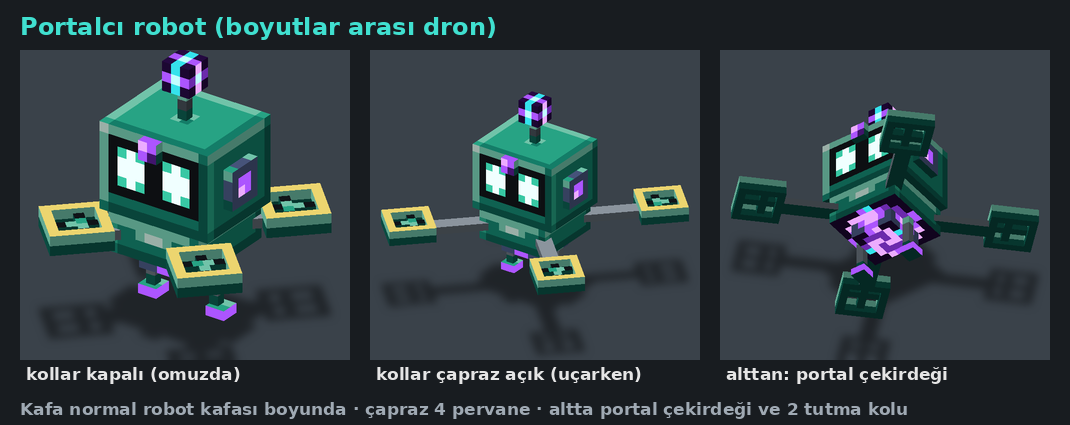
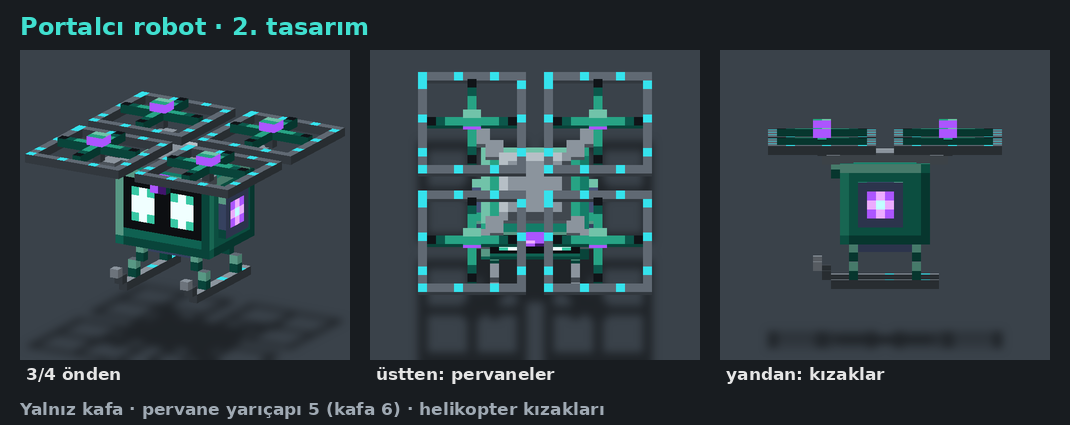
Portalcı 2. tasarım: yalnız kafa, büyük yakın pervaneler, helikopter kızakları
Claude-Session: https://claude.ai/code/session_016dSUtqjRQFdnbyLYXoqgnG

diff --git a/aqualit/tasarim/portalci.py b/aqualit/tasarim/portalci.py
@@ -1,101 +1,95 @@
-"""Portalcı (boyutlar arası) robot: kendisi bir dron. Kafası normal robot kafası boyunda (12x9x10), altında kısa gövde ve
-girdaplı portal çekirdeği; çapraza (X) açılan 4 kol, her kolun ucunda halka içinde yatay pervane. Altta iki tutma kolu
-(robotları omuzlarından tutup uçurur). Boşken küçülüp omuzda süzülür."""
+"""Portalcı (boyutlar arası) robot, 2. tasarım: yalnız kafa (normal robot kafası 12x9x10) uçan dron.
+Kafanın üst köşelerine yakın, çapraz (X) dizili dört büyük yatay pervane (yarıçap 5 = kafa yarıçapının (6) 5/6'sı),
+her biri kare koruma halkasında. Altta helikopter gibi ince, modern iniş kızakları (turkuaz şeritli).
+Alnında portal taşı, yanlarda portal halkaları, kafanın altında yüzeye gömülü parlayan portal çekirdeği."""
 import math
 import os
 from ortak import Form, Part, kutu, fill, rows, panel, over, dondur_gif, kart, OUT, Z, model, R
 
-KOLLAR = [('fl', 45), ('fr', -45), ('bl', 135), ('br', -135)]   # yukarıdan açı (+z ön)
+D = 7            # pervane merkezlerinin kafa merkezine x/z uzaklığı
+YP = 20          # pervane yüksekliği (kafa tepesi 19)
+RP = 5           # pervane yarıçapı
+KOSE = [('fl', 1, 1), ('fr', -1, 1), ('bl', 1, -1), ('br', -1, -1)]
 
 
 def girdap(n, t=0.0):
-    """n x n portal girdabı yüzü (mor-turkuaz)."""
-    g = []
-    c = (n - 1) / 2
+    g, c = [], (n - 1) / 2
     for y in range(n):
         r = []
         for x in range(n):
-            dx, dy = x - c, y - c
-            d = math.hypot(dx, dy) / max(c, 1)
-            a = math.atan2(dy, dx) + d * 3.2 - t * 6.283
+            d = math.hypot(x - c, y - c) / max(c, 1)
+            a = math.atan2(y - c, x - c) + d * 3.2 - t * 6.283
             v = (math.sin(a * 2) + 1) / 2
-            if d > 1.05:
-                r.append('ç')
-            elif d < 0.25:
-                r.append('Ç')
-            else:
-                r.append('ü' if v > 0.75 else 'ğ' if v > 0.45 else 'ö' if v > 0.25 else 'ş')
+            r.append('ç' if d > 1.05 else 'Ç' if d < 0.25 else 'ü' if v > 0.75 else 'ğ' if v > 0.45 else 'ö' if v > 0.25 else 'ş')
         g.append(r)
     return g
 
 
-def model_portalci(t=0.0, kol_acik=1.0):
+def model_portalci(t=0.0):
     f = Form('portalci', 'Portalcı')
     f.bone('root', None, (0, 0, 0))
-    f.bone('govde', 'root', (0, 8, 0))
-    f.bone('kafa', 'govde', (0, 10, 0))
-    # kafa: normal robot kafası (gözler ışıklı), alnında portal taşı, tepesinde girdap küreli anten
+    f.bone('govde', 'root', (0, 14, 0))
+    # kafa = robotun kendisi
     for p in R.base_robot('portalci'):
         if p.name == 'head':
-            f.parts.append(Part('kafa', p, 'EYES'))
-    kutu(f, 'kafa', 'alin_tasi', (-1, 17, 5), (1, 18.5 + 0.5, 5.5 + 0.5), base='ğ', glow='ğüÇ',
-         front=rows('üğ', 'ğş'))
-    kutu(f, 'kafa', 'anten', (-0.5, 19, -0.5), (0.5, 22, 0.5), base='%')
-    kutu(f, 'kafa', 'anten_kure', (-1.5, 22, -1.5), (1.5, 25, 1.5), base='ğ', glow='ğüÇöş',
-         front=girdap(3, t), back=girdap(3, t + .3), left=girdap(3, t + .5), right=girdap(3, t + .7), top=girdap(3, t))
-    # yanlarda kulak yerine küçük portal halkaları
+            f.parts.append(Part('govde', p, 'EYES'))
+    kutu(f, 'govde', 'alin_tasi', (-1, 17, 5), (1, 19, 6), base='ğ', glow='ğüÇ', front=rows('üğ', 'ğş'))
     for ad, x0 in (('kulak_l', -7), ('kulak_r', 6)):
-        kutu(f, 'kafa', ad, (x0, 12.5, -1.5), (x0 + 1, 16.5, 2.5), base='3',
-             left=over(fill(4, 4, '3'), rows('ğğ', 'üğ'), 1, 1), right=over(fill(4, 4, '3'), rows('ğğ', 'üğ'), 1, 1),
-             glow='ğü')
-    # gövde: kafanın altında yassı dron gövdesi; altında parlayan portal çekirdeği
-    on = panel(10, 4, 'M')
-    over(on, rows('HWWH'), 3, 1)
-    kutu(f, 'govde', 'govde', (-5, 6, -5), (5, 10, 5), base='M', front=on, bottom=girdap(10, t), glow='ğüÇöş')
-    kutu(f, 'govde', 'cekirdek', (-3, 4, -3), (3, 6, 3), base='3', bottom=girdap(6, t + .2), glow='ğüÇöş',
-         front=rows('3ğüüğ3', '33ğğ33'), back=rows('3ğüüğ3', '33ğğ33'), left=rows('3ğüüğ3', '33ğğ33'),
-         right=rows('3ğüüğ3', '33ğğ33'))
-    # çapraz 4 kol + uçlarında halka içinde yatay pervane
-    for ad, aci in KOLLAR:
-        kb = f'kol_{ad}'
-        f.bone(kb, 'govde', (0, 8, 0), (0, aci, 0))
-        L = 4 + 6 * kol_acik
-        kutu(f, kb, f'{kb}_cubuk', (-1, 7.5, 3), (1, 8.5, 3 + L), base='&', top=fill(2, int(L), '*'))
-        z0 = 3 + L
-        for nm, aa, bb in ((f'{kb}_h1', (-3, 7.5, z0), (3, 9.5, z0 + 1)), (f'{kb}_h2', (-3, 7.5, z0 + 5), (3, 9.5, z0 + 6)),
-                           (f'{kb}_h3', (-3, 7.5, z0 + 1), (-2, 9.5, z0 + 5)), (f'{kb}_h4', (2, 7.5, z0 + 1), (3, 9.5, z0 + 5))):
-            kutu(f, kb, nm, aa, bb, base='y', top=fill(int(bb[0] - aa[0]), int(bb[2] - aa[2]), 'Y'))
+        kutu(f, 'govde', ad, (x0, 12, -2), (x0 + 1, 17, 3), base='3', glow='ğüÇ',
+             left=over(fill(5, 5, '3'), rows('ğüğ', 'üÇü', 'ğüğ'), 1, 1), right=over(fill(5, 5, '3'), rows('ğüğ', 'üÇü', 'ğüğ'), 1, 1))
+    # kafanın altında gömülü portal çekirdeği (sarkmaz)
+    kutu(f, 'govde', 'cekirdek', (-3, 9, -3), (3, 10, 3), base='3', bottom=girdap(6, t), glow='ğüÇöşç')
+    # tepe göbeği: dört kolu taşıyan yassı plaka
+    kutu(f, 'govde', 'gobek', (-4, 19, -4), (4, 20, 4), base='&', top=panel(8, 8, '*', t='+', b='%', l='+', r='%'))
+    for ad, sx, sz in KOSE:
+        # göbekten pervaneye kısa çapraz kol (iki basamak)
+        for k in range(3):
+            x, z = sx * (3 + k * 1.5), sz * (3 + k * 1.5)
+            kutu(f, 'govde', f'kol_{ad}{k}', (x - 1, 19, z - 1), (x + 1, 20, z + 1), base='&', top=fill(2, 2, '*'))
+        cx, cz = sx * D, sz * D
+        kutu(f, 'govde', f'mil_{ad}', (cx - 0.5, 20, cz - 0.5), (cx + 0.5, 21, cz + 0.5), base='%')
+        # kare koruma halkası (yarıçap 6)
+        r = RP + 1
+        for nm, aa, bb in ((f'h1_{ad}', (cx - r, 20.5, cz - r), (cx + r, 21.5, cz - r + 1)),
+                           (f'h2_{ad}', (cx - r, 20.5, cz + r - 1), (cx + r, 21.5, cz + r)),
+                           (f'h3_{ad}', (cx - r, 20.5, cz - r + 1), (cx - r + 1, 21.5, cz + r - 1)),
+                           (f'h4_{ad}', (cx + r - 1, 20.5, cz - r + 1), (cx + r, 21.5, cz + r - 1))):
+            w_, d_ = int(round(bb[0] - aa[0])), int(round(bb[2] - aa[2]))
+            kutu(f, 'govde', nm, aa, bb, base='%', glow='ö',
+                 top=[['ö' if (i + j) % 4 == 0 else '&' for i in range(w_)] for j in range(d_)])
         pb = f'per_{ad}'
-        f.bone(pb, kb, (0, 8.5, z0 + 3))
-        kutu(f, pb, f'{pb}_a', (-2, 8, z0 + 2.5 - 0.5), (2, 9, z0 + 3.5 - 0.5), base='D', top=rows('kLHk'))
-        kutu(f, pb, f'{pb}_b', (-0.5, 8, z0 + 1), (0.5, 9, z0 + 5), base='D', top=rows('k', 'L', 'H', 'k'))
-    # altta iki tutma kolu (robotları omuzdan tutar)
-    for ad, x0 in (('tut_l', -4), ('tut_r', 3)):
-        kutu(f, 'govde', ad, (x0, 1, -0.5), (x0 + 1, 6, 0.5), base='&')
-        kutu(f, 'govde', ad + '_el', (x0 - 0.5 if ad == 'tut_l' else x0, 0, -1), (x0 + 1.5 if ad == 'tut_l' else x0 + 2, 1, 1),
-             base='ğ', glow='ğ')
+        f.bone(pb, 'govde', (cx, 21.5, cz))
+        kutu(f, pb, pb + 'a', (cx - RP, 21, cz - 0.5), (cx + RP, 22, cz + 0.5), base='D', top=rows('kDLLHHLLDk'))
+        kutu(f, pb, pb + 'b', (cx - 0.5, 21, cz - RP), (cx + 0.5, 22, cz + RP), base='D',
+             top=[[c] for c in 'kDLLHHLLDk'])
+        kutu(f, pb, pb + 'c', (cx - 1, 22, cz - 1), (cx + 1, 23, cz + 1), base='ğ', glow='ğ')
+    # helikopter iniş kızakları: iki ince boru, ucu yukarı kıvrık; ikişer eğik dikme; turkuaz şerit
+    for ad, sx in (('l', -1), ('r', 1)):
+        x = sx * 4.5
+        kutu(f, 'govde', f'kizak_{ad}', (x - 0.5, 5, -6), (x + 0.5, 6, 6), base='%',
+             top=[['ö' if j % 4 == 1 else '*'] for j in range(12)], glow='ö')
+        kutu(f, 'govde', f'kizak_uc_{ad}', (x - 0.5, 6, 6), (x + 0.5, 7, 7), base='%')
+        kutu(f, 'govde', f'kizak_uc2_{ad}', (x - 0.5, 7, 7), (x + 0.5, 8, 8), base='*')
+        for k, z in enumerate((-3.5, 3.5)):
+            kutu(f, 'govde', f'dikme_{ad}{k}', (x - 0.5, 6, z - 0.5), (x + 0.5, 8, z + 0.5), base='&')
+            kutu(f, 'govde', f'dikme2_{ad}{k}', (x - 0.5 - sx, 8, z - 0.5), (x + 0.5 - sx, 10, z + 0.5), base='&')
     return f
 
 
 def poz(t):
-    p = {}
-    for ad, _ in KOLLAR:
-        p[f'per_{ad}'] = [0, t * 1440 * (1 if ad in ('fl', 'br') else -1), 0]
+    p = {f'per_{a}': [0, t * 1440 * (1 if a in ('fl', 'br') else -1), 0] for a, _, _ in KOSE}
     p['govde'] = {'p': [0, math.sin(t * 6.283) * 0.6, 0]}
     return p
 
 
 if __name__ == '__main__':
-    yol, fr = dondur_gif(model_portalci(), '81_portalci.gif', center=(0, 10, 0), scale=8.5, size=(420, 380), poz=poz,
-                         W=256, elev=24)
+    yol, fr = dondur_gif(model_portalci(), '81_portalci.gif', center=(0, 14, 0), scale=9, size=(420, 380), poz=poz,
+                         W=256, elev=22)
     print(yol)
-    # kollar kapalı (omuz boyu hali) ve açık
     imgs = []
-    for k, ad, el in ((0.0, 'kollar kapalı (omuzda)', 28), (1.0, 'kollar çapraz açık (uçarken)', 28),
-                      (1.0, 'alttan: portal çekirdeği', -40)):
-        f = model_portalci(kol_acik=k)
-        geo, tex, glow = model(f, W=256)
-        cam = Z.Cam(yaw=35, elev=el, scale=8 if k else 11, size=(330, 310), center=(0, 10, 0))
+    geo, tex, glow = model(model_portalci(), W=256)
+    for yaw, el, ad in ((30, 18, '3/4 önden'), (0, 70, 'üstten: pervaneler'), (90, 4, 'yandan: kızaklar')):
+        cam = Z.Cam(yaw=yaw, elev=el, scale=9, size=(330, 310), center=(0, 14, 0))
         imgs.append((Z.render(geo, tex, poz(0), (), cam, glow=glow, ground={'y': -1, 'color': (58, 66, 74)}), ad))
-    print(kart('Portalcı robot (boyutlar arası dron)', imgs, os.path.join(OUT, '81_portalci.png'),
-               alt='Kafa normal robot kafası boyunda · çapraz 4 pervane · altta portal çekirdeği ve 2 tutma kolu'))
+    print(kart('Portalcı robot · 2. tasarım', imgs, os.path.join(OUT, '81_portalci.png'),
+               alt='Yalnız kafa · pervane yarıçapı 5 (kafa 6) · helikopter kızakları'))
